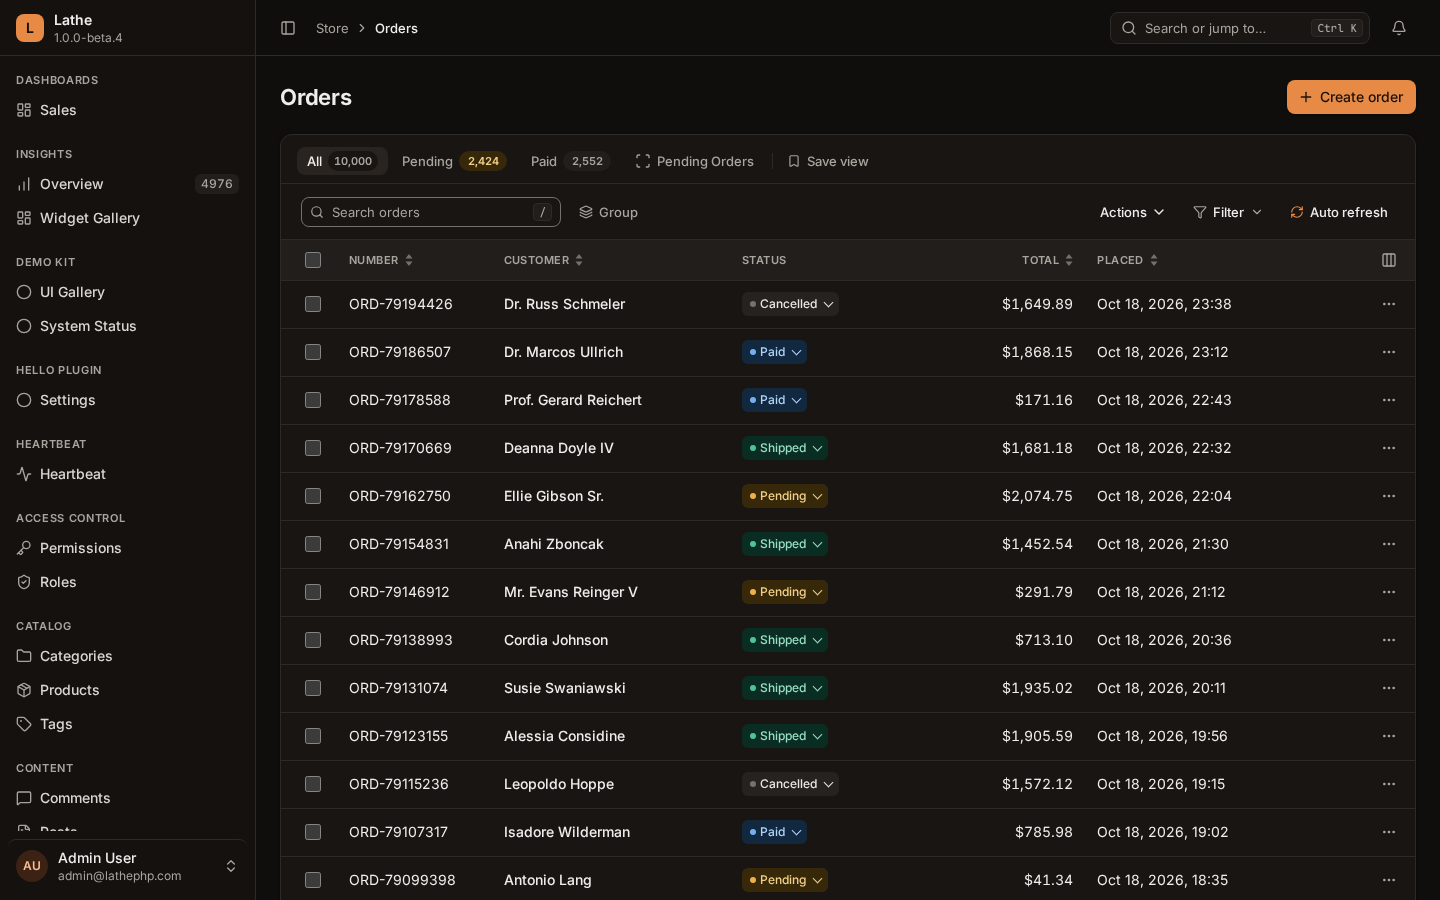
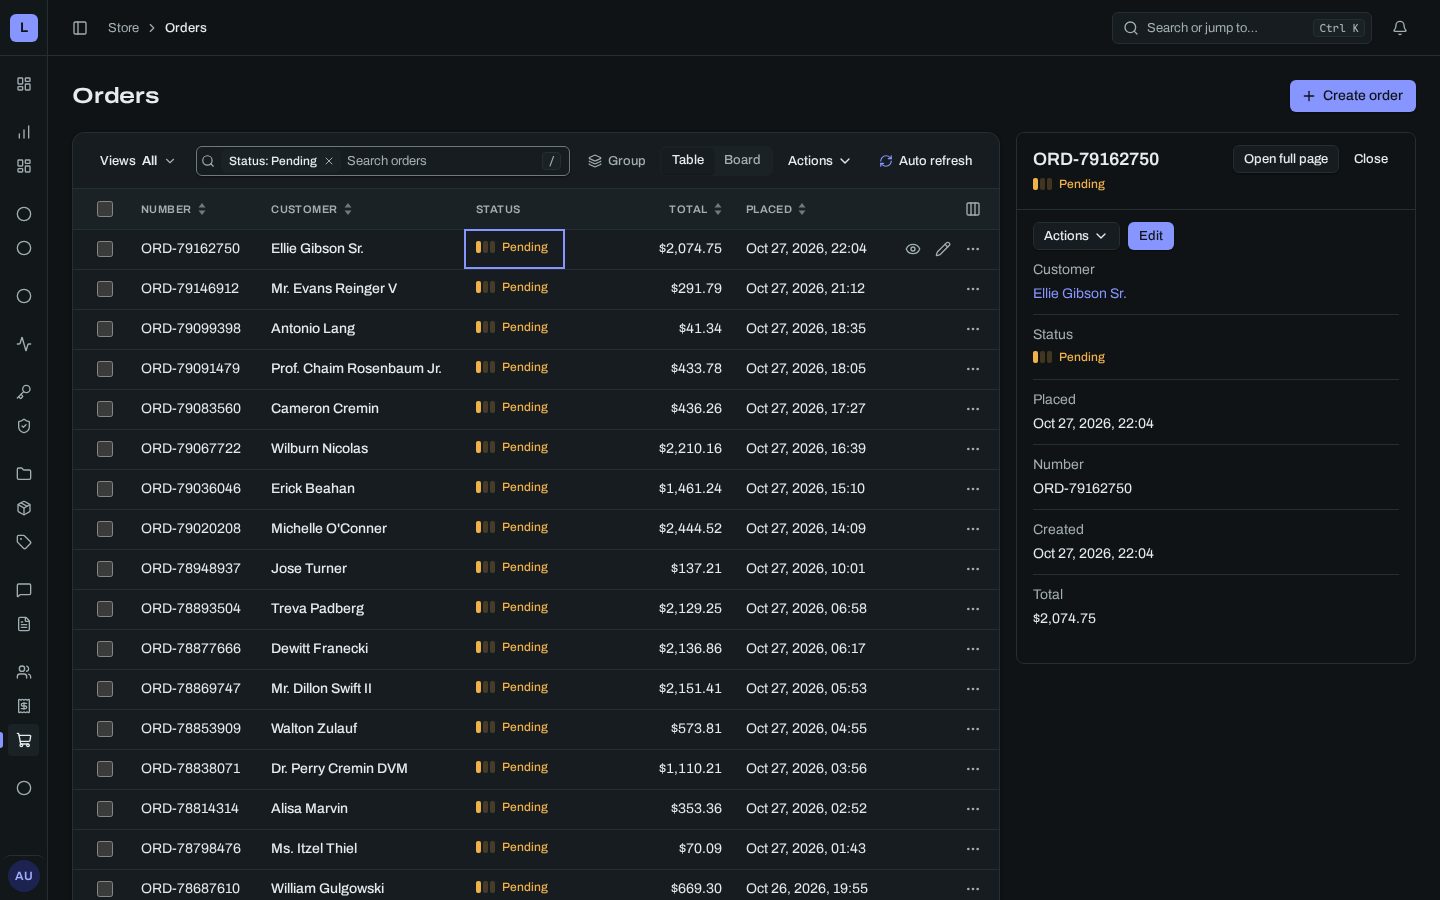
Show the workspace in the README's Orders images
The images showed the beta.4 table with its tab band and Filter button. They
now show Orders at 1440 by 900 in light and dark with a Status: Pending chip
in the filter bar, the cell cursor on the first row and the preview panel
open on that order. The sidebar is folded so the grid keeps its Total and
Placed columns beside the panel, and the views rail sits in the Views menu,
as it does whenever the panel is open.

diff --git a/README.md b/README.md
@@ -6,7 +6,7 @@ Lathe is an admin panel builder for Laravel on Inertia, React and shadcn/ui. You
 
 <picture>
   <source media="(prefers-color-scheme: dark)" srcset="docs/images/orders-dark.png">
-  <img src="docs/images/orders-light.png" alt="The Orders list in Lathe: a table of orders with status badges, totals and dates, with search, filters and tabs above it" width="1440">
+  <img src="docs/images/orders-light.png" alt="The Orders list in Lathe: a grid of orders filtered by a Status: Pending chip in the filter bar, a cell cursor on the first row, and the preview panel open beside it on that order" width="1440">
 </picture>
 
 - Docs: https://lathephp.com/docs
